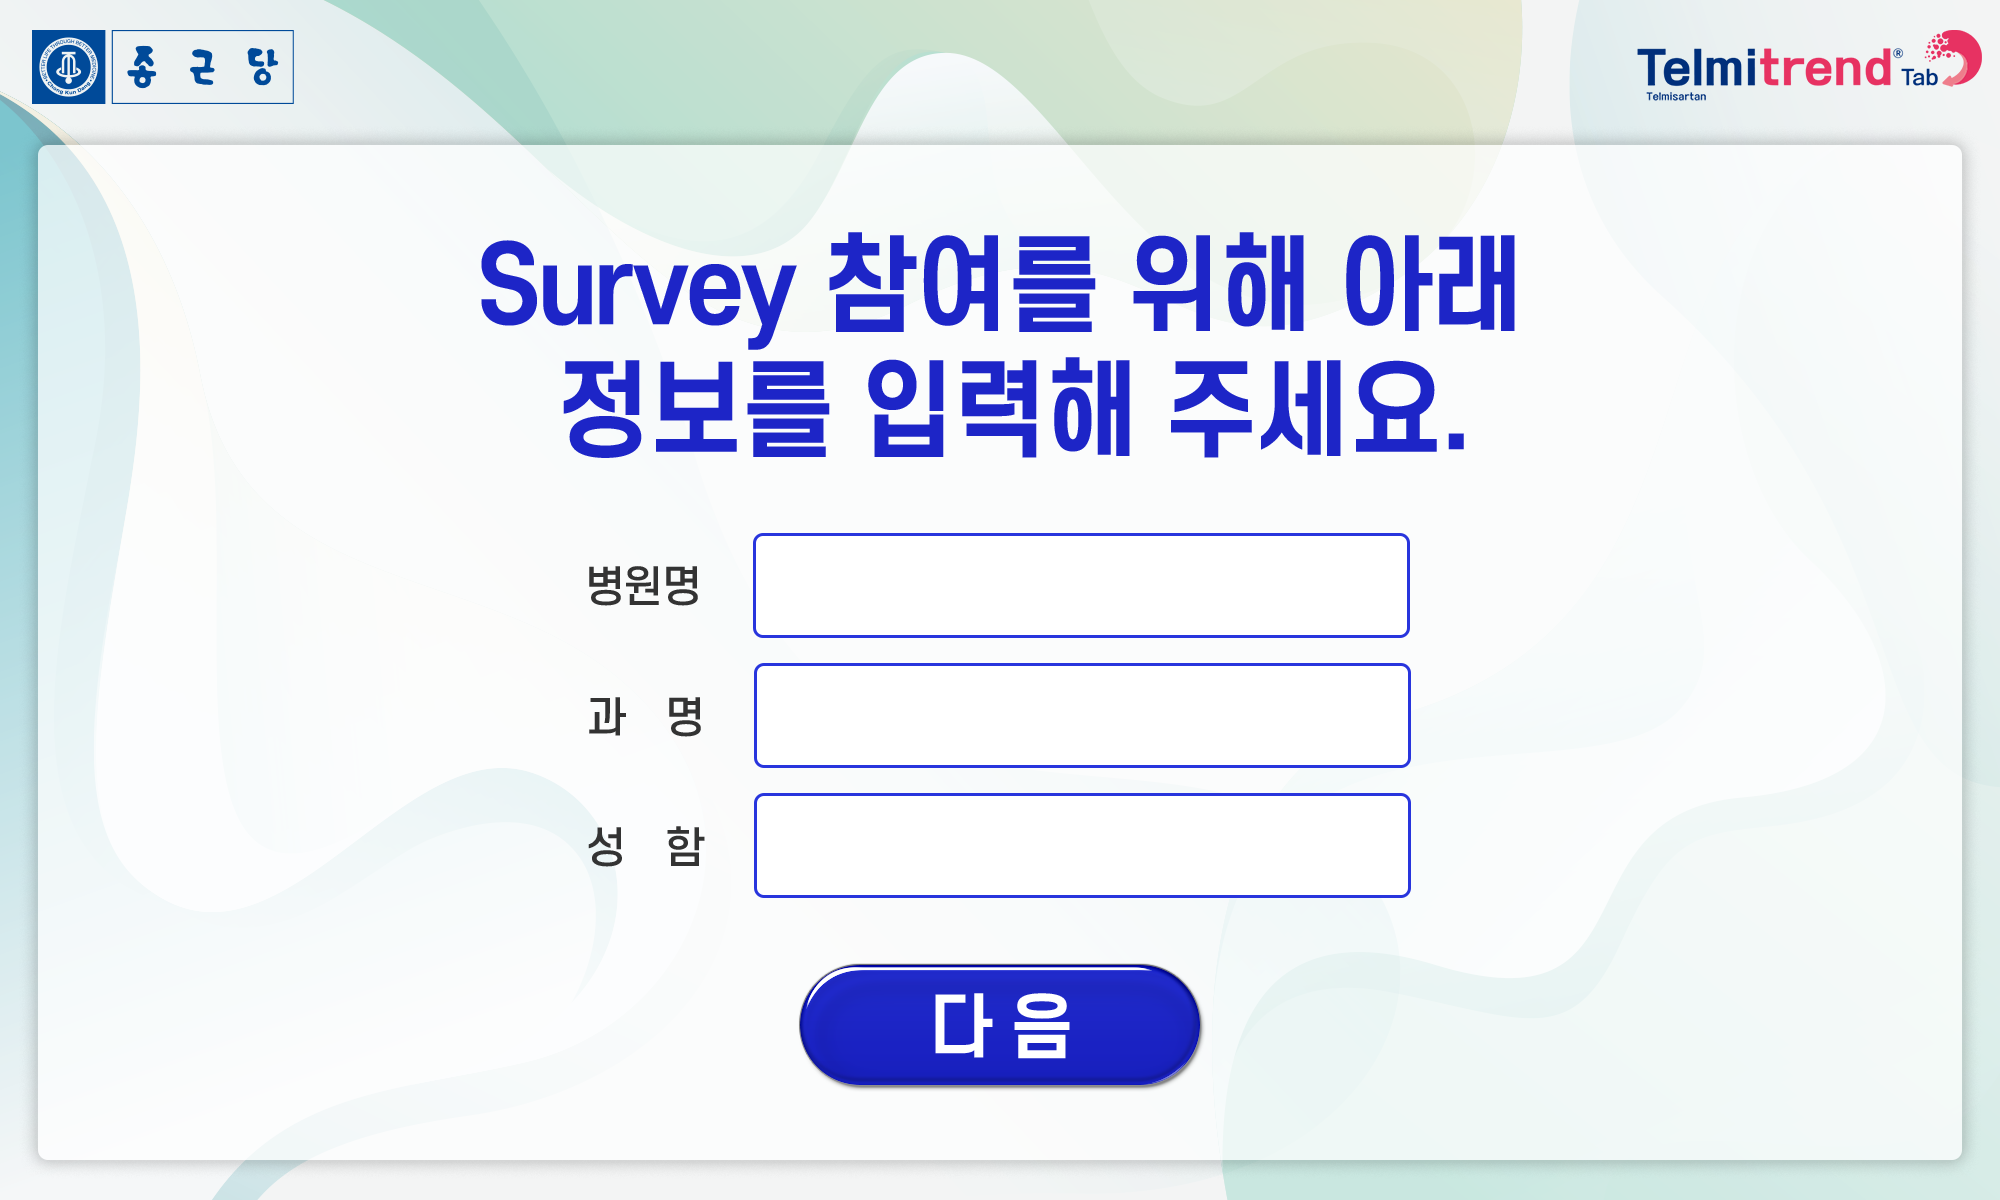
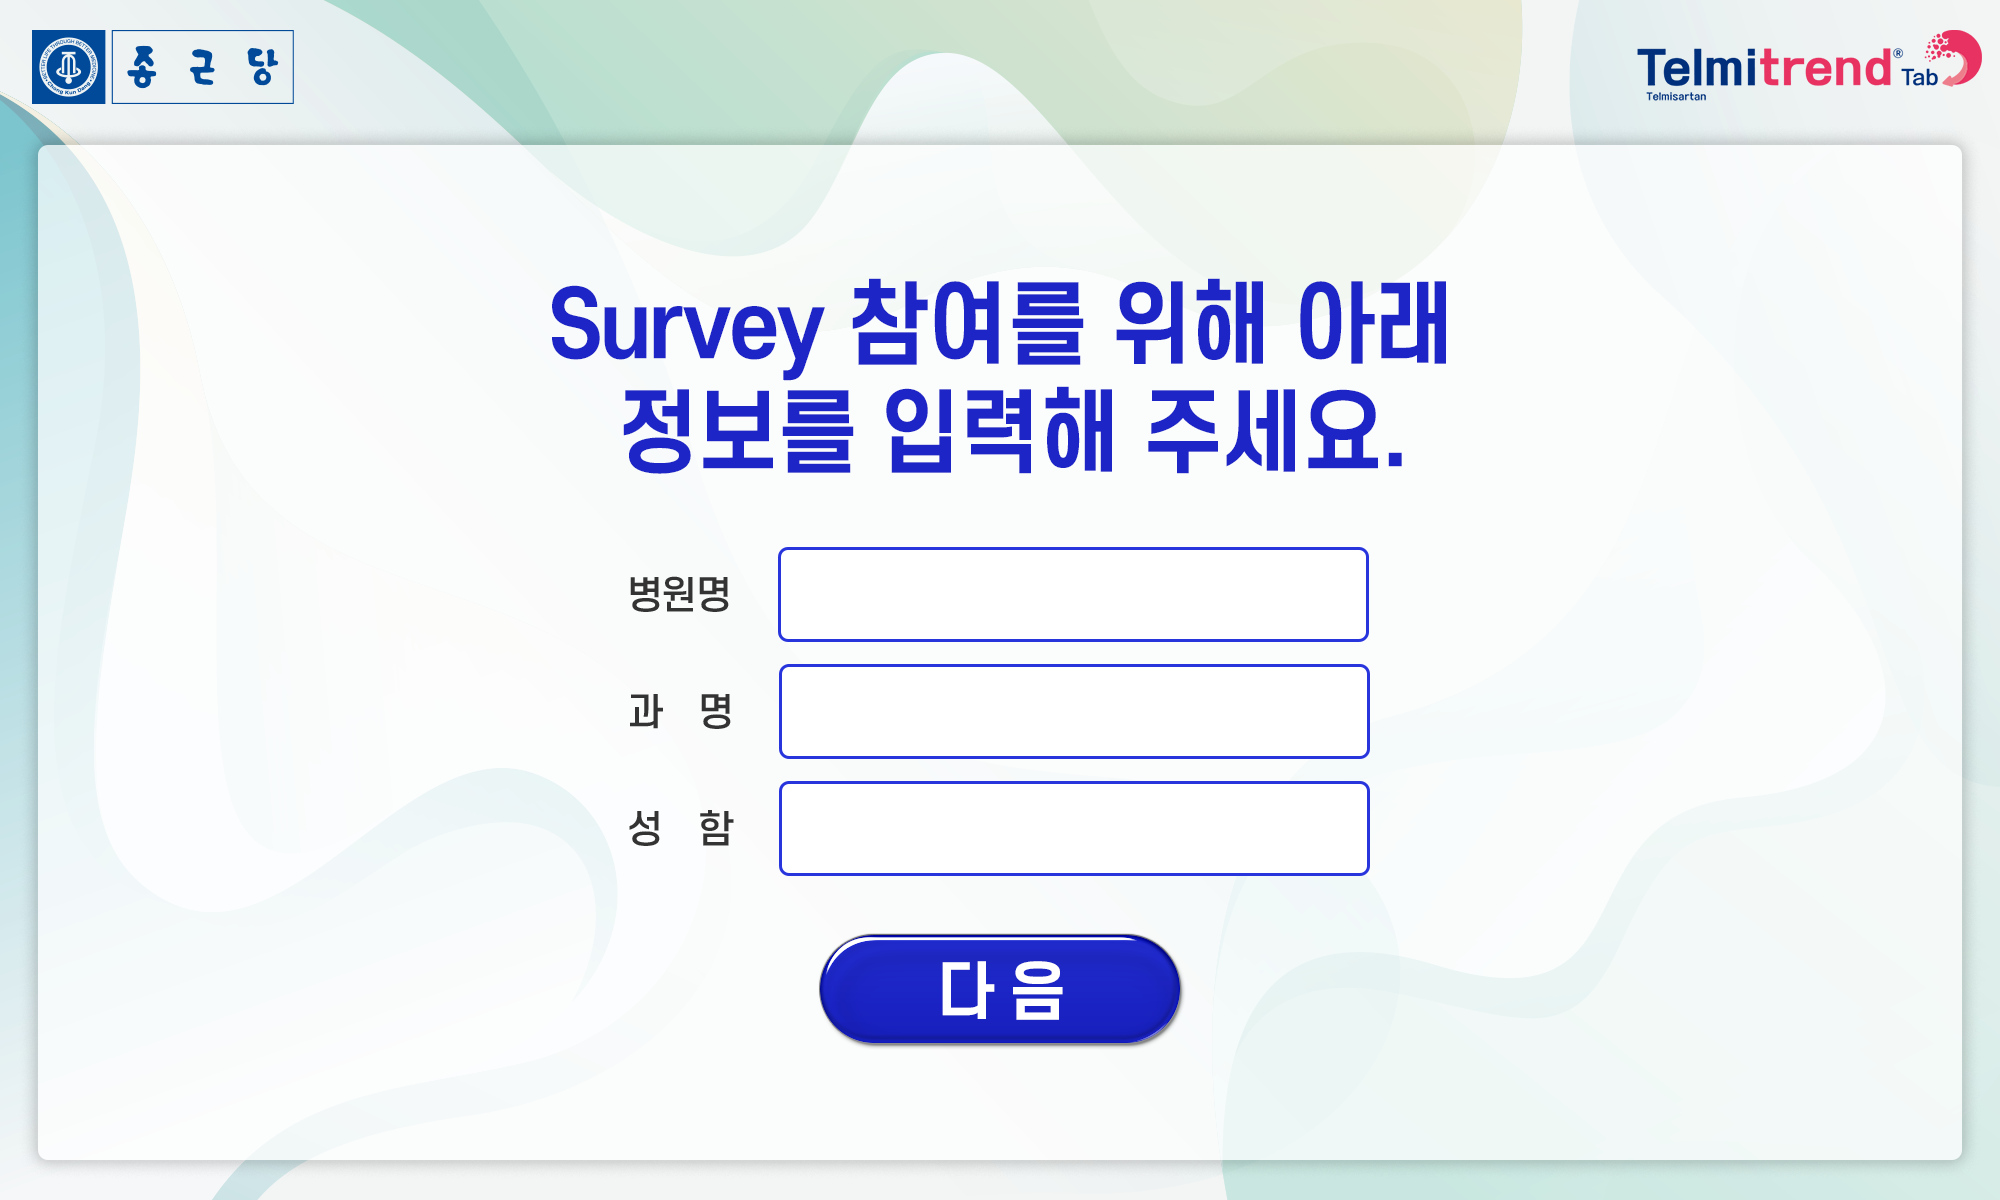
4.20

diff --git a/src/components/Result4.vue b/src/components/Result4.vue
@@ -32,6 +32,7 @@
                     <s></s>
                     <i>{{ perSum('q6', i).toFixed(0) }}%</i>
                   </span>
+                  <p :class="'label' + i">{{ example.label }}</p>
                 </div>
               </li>
             </ul>
@@ -114,7 +115,7 @@ export default {
     .graph {
       > div { .abs; .lt; }
       .result {
-        i { .fs(26); color:#fff; .bold; .abs; .ib; .tc; }
+        i { .fs(26); color:#fff; .bold; .abs; .ib; .tc; white-space: pre; }
       }
       .result1 { .lt(416,321);
         li { .wh(64,220); .max-h(220); .ib; .abs; .lt;
@@ -131,7 +132,7 @@ export default {
         }
       }
       .result2 { .lt(493,683);
-        li { .wh(240,64); .block; .max-w(240); .mb(29);
+        li { .wh(400,64); .block; .max-w(400); .mb(29);
           div { .hf; .rel;
             span { .ib; .h(64); .bgc(#1c25c5); .br(32); border-top-left-radius:0; border-bottom-left-radius:0; .abs; .lb; .min-w(35); }
             i { .lh(64); .f; .tl; .pl(5); }
@@ -150,38 +151,50 @@ export default {
           }
         }
       }
-      .result3 { .lt(1030,322);
-        li { .wh(160); .max-w(160); .max-h(160); .ib; .rel;
+      .result3 { .lt(1055,345);
+        li { .wh(140,140); .max-w(150); .max-h(150); .ib; .rel; .m(0,40,70);
           div { .f; .rel;
-            span { .ib; .br(50%); .min-w(60); .min-h(60); .abs; .lb(50%,0); transform: translateX(-50%); .-box; background: linear-gradient(90deg, rgba(245,245,246,1) 0%, rgba(244,245,246,1) 100%);
+            span { .ib; .br(50%); .min-w(60); .min-h(60); .abs; .lb(50%,20); transform: translateX(-50%); .-box; background: linear-gradient(90deg, rgba(245,245,246,1) 0%, rgba(244,245,246,1) 100%);
               s { .wh(80%,80%); .abs; .lt(50%,50%); transform: translate(-50%,-50%); .contain('/img/circle.png'); }
               i { .wf; .lt(0,50%); transform: translateY(-50%); .ls(-1); }
             }
+            p { .fs(24); .bold; .abs; .lt(50%,125); transform: translateX(-50%); }
           }
-          &:nth-child(1), &:nth-child(7), &:nth-child(8) { .hide; }
-          &:nth-child(2) { .mr(18);
+          &:nth-child(1) {
             span { .-a(#1c25c3,10px); }
-            i { color:#1c25c3; }
+            i, p { color:#1c25c3; }
           }
-          &:nth-child(3) { .mr(32);
-            span { .-a(#1f479b,10px); }
-            i { color:#1f479b; }
+          &:nth-child(2) {
+            span { .-a(#1f4699,10px); }
+            i, p { color:#1f4699; }
           }
-          &:nth-child(4) { .mr(34);
-            span { .-a(#146f6c,10px); }
-            i { color:#146f6c; }
+          &:nth-child(3) {
+            span { .-a(#146e6b,10px); }
+            i, p { color:#146e6b; }
           }
-          &:nth-child(5) { .mr(19);
-            span { .-a(#09963d,10px); }
-            i { color:#09963d; }
+          &:nth-child(4) {
+            span { .-a(#09943c,10px); }
+            i, p { color:#09943c; }
+          }
+          &:nth-child(5) {
+            span { .-a(#00bc10,10px); }
+            i, p { color:#00bc10; }
           }
           &:nth-child(6) {
-            span { .-a(#00be10,10px); }
-            i { color:#00be10; }
+            span { .-a(#146e6b,10px); }
+            i, p { color:#146e6b; }
+          }
+          &:nth-child(7) {
+            span { .-a(#1f4699,10px); }
+            i, p { color:#1f4699; }
+          }
+          &:nth-child(8) {
+            span { .-a(#1a23be,10px); }
+            i, p { color:#1a23be; }
           }
         }
       }
-      .result4 { .lt(1047,881);
+      .result4 { .lt(1047,931);
         li { .wh(60,130); .abs; .lb(57,0);  .max-h(240);
           span { .ib; .w(64); .bgc(#1c25c5); .br-t(30); .abs; .lb; .min-h(35); }
           i { .wf; .lb; }

diff --git a/src/components/Intro.vue b/src/components/Intro.vue
@@ -178,10 +178,9 @@ export default {
     .submit { .wh(400,120); .ib; .abs; .lt(798,964); }
   }
   .welcome { .fs(40);
-    p { .fs(110); .lh(140); color:#1c25c5; .wf; .bold; .abs; .tc; .t(317); }
+    p { .fs(90); .lh(140); color:#1c25c5; .wf; .bold; .abs; .tc; .t(317); }
     a { .fs(0); .abs; .wh(686,149); .lt(50%,814); transform: translateX(-50%); }
   }
-
 
 
   .popup { font-size: 40px; .f; .fix; .lt;
